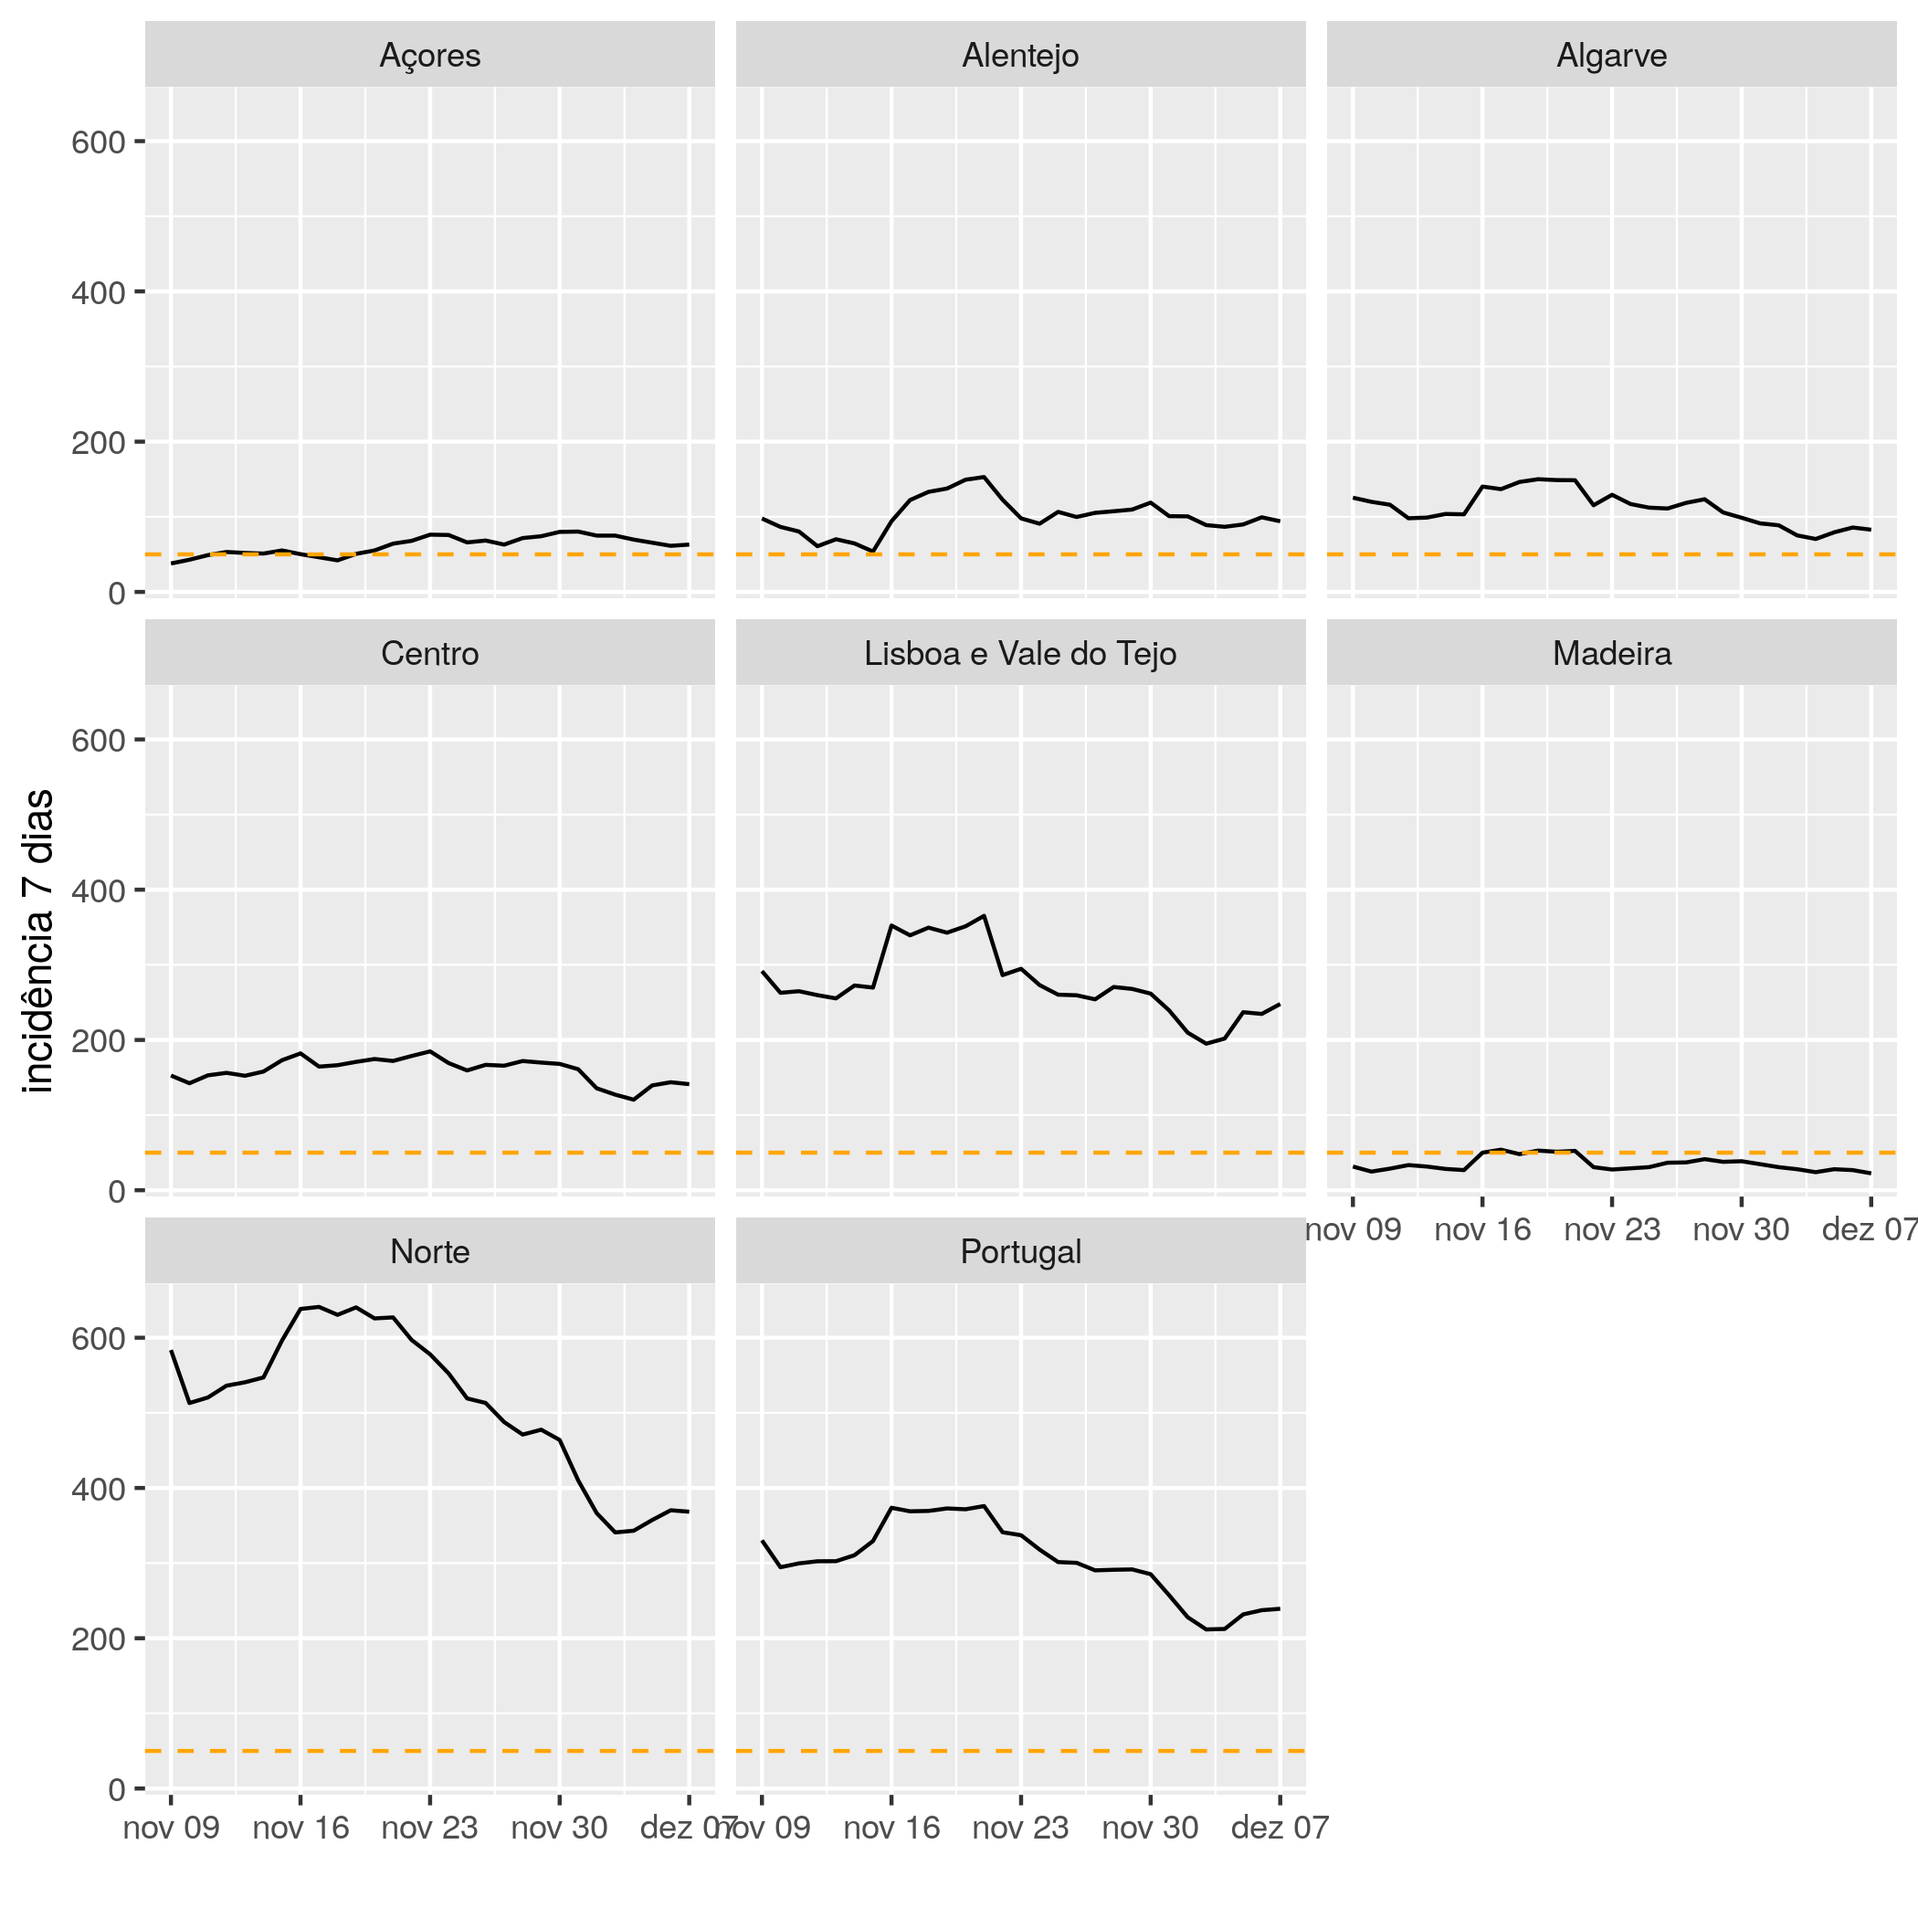
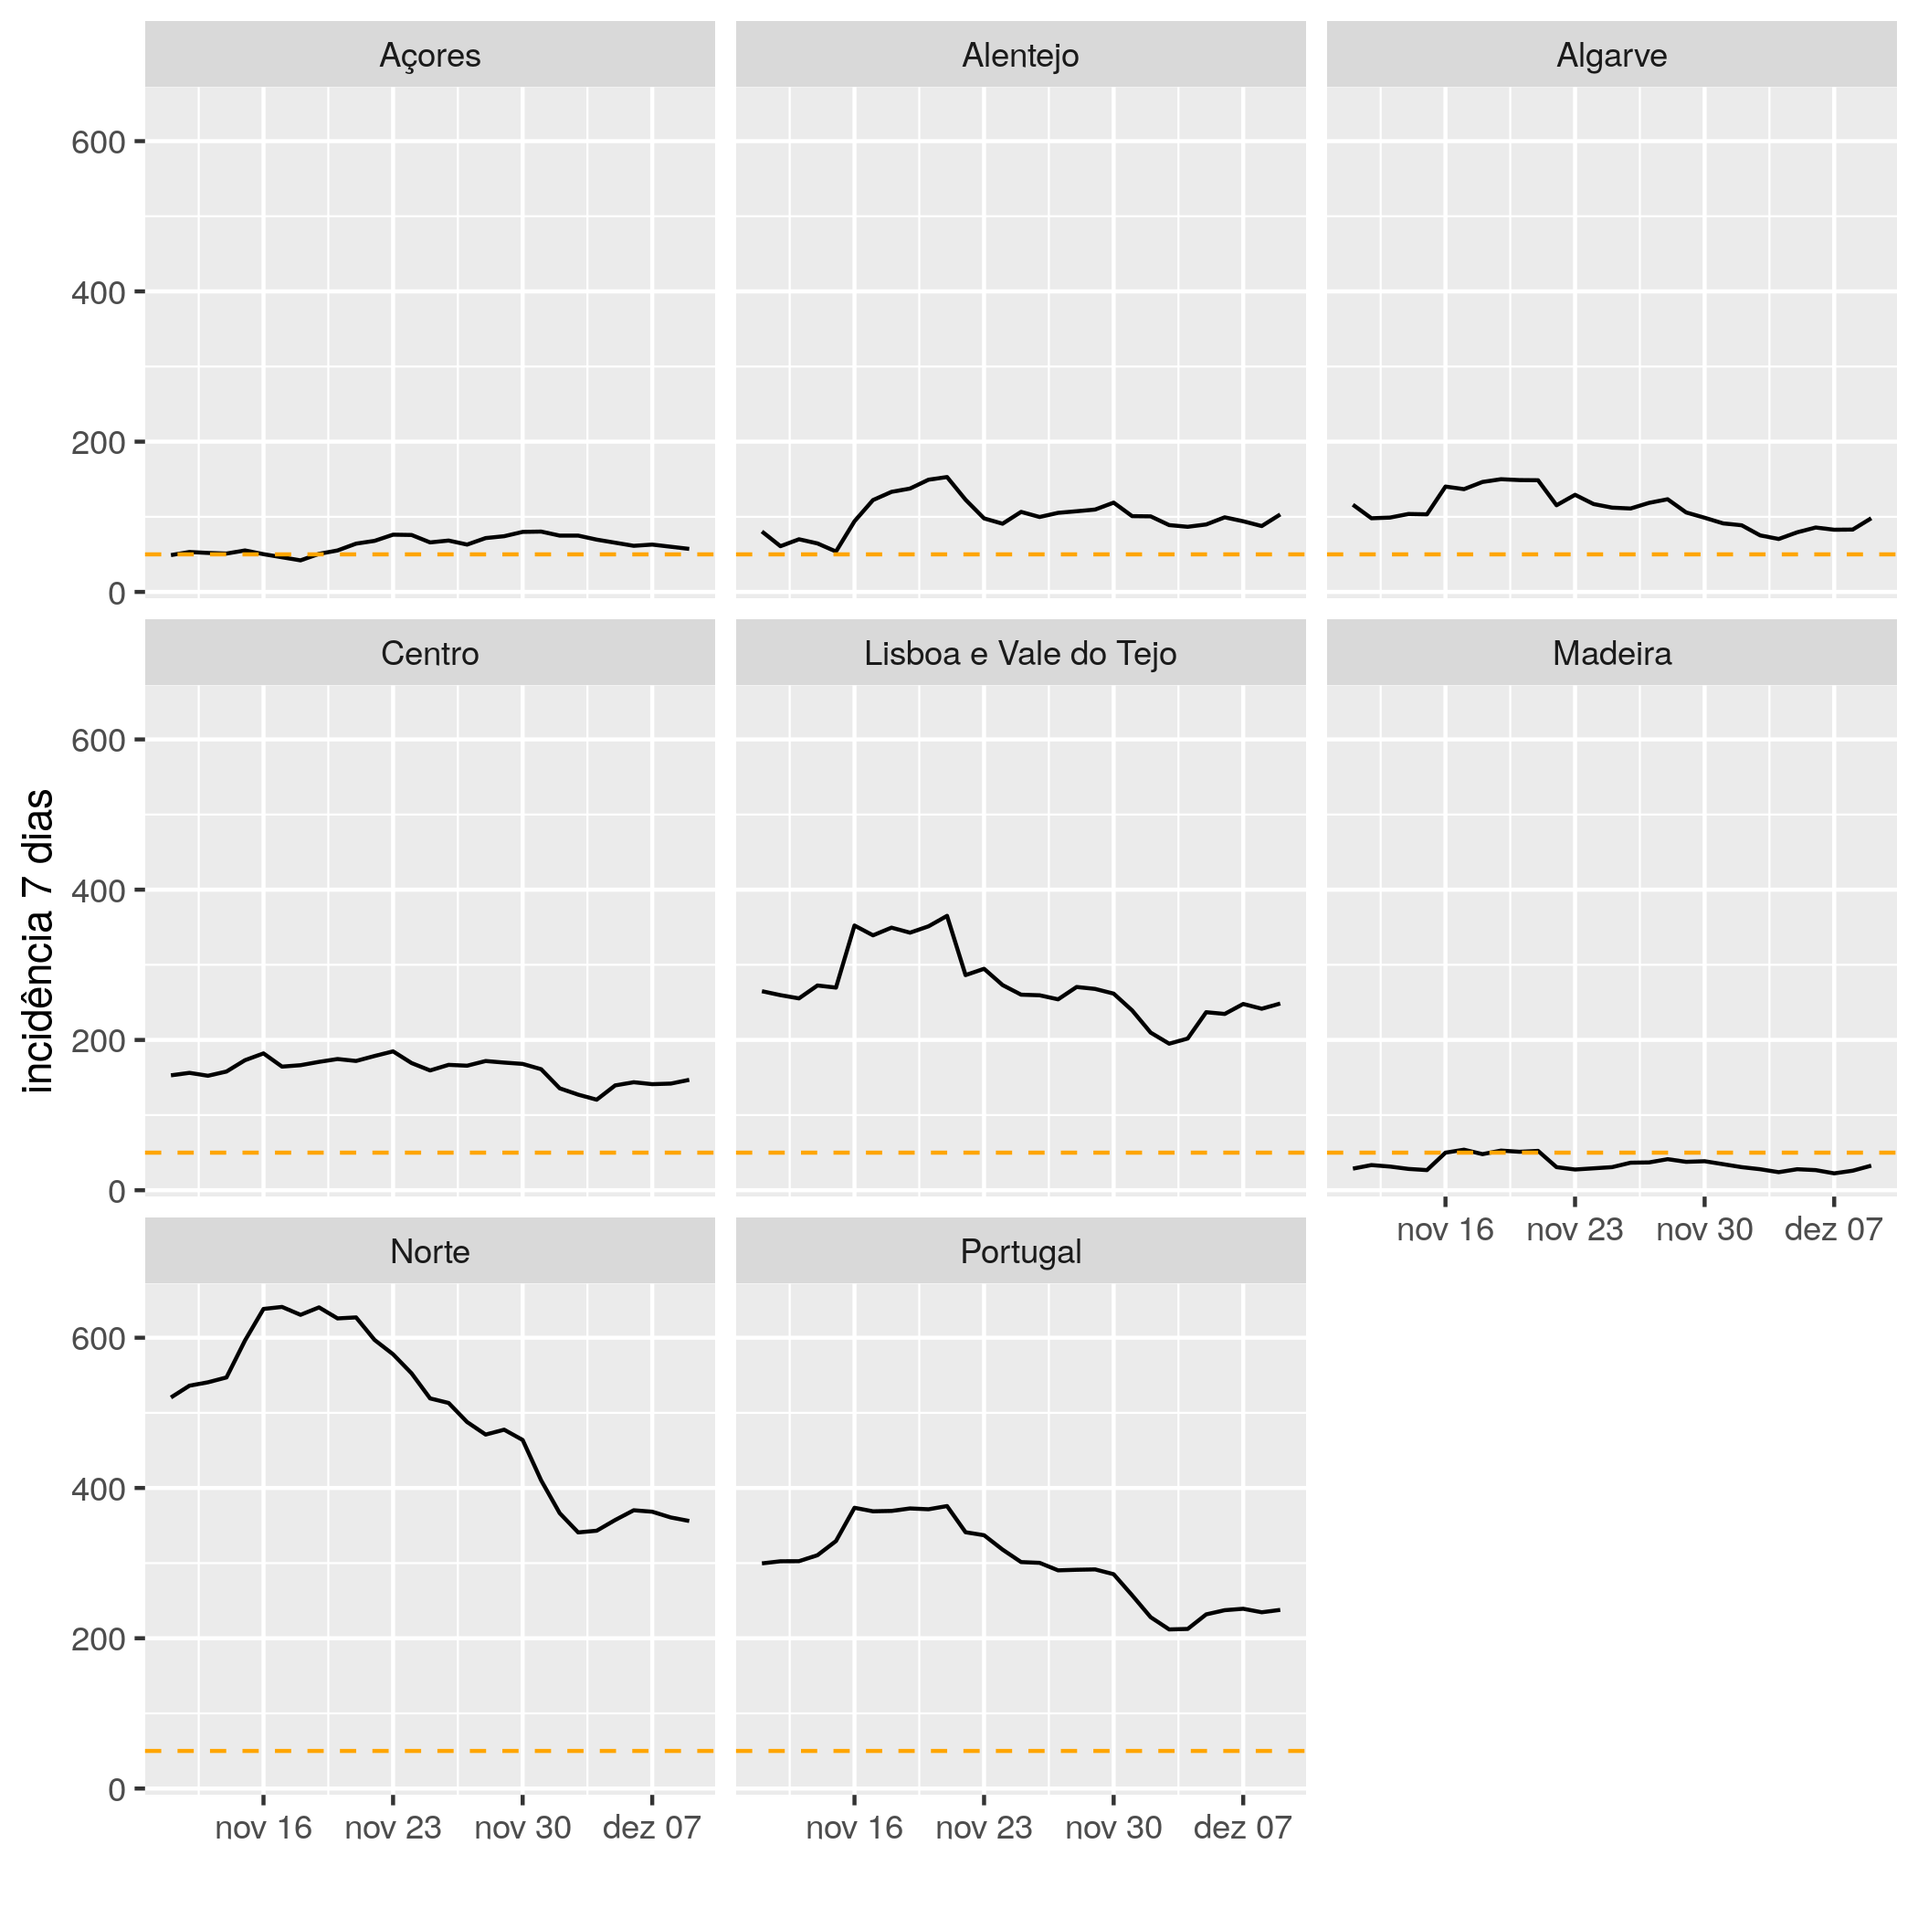
a descer?

diff --git a/README.md b/README.md
@@ -1,7 +1,7 @@
 # Contexto
 A incidência por 100000 habitantes em 7 dias é o valor de referência para decretar regiões de risco pelas autoridades de saúde alemãs (valor charneira é 50). Gráficos atualizados diariamente. Para ajudar quem quer viajar para a Alemanha ou vir passar férias a Portugal.
 
-Dados mais recentes de 2020-12-07.
+Dados mais recentes de 2020-12-09.
 
 # Incidência por 100000 habitantes em 7 dias
 ## Últimos 30 dias
